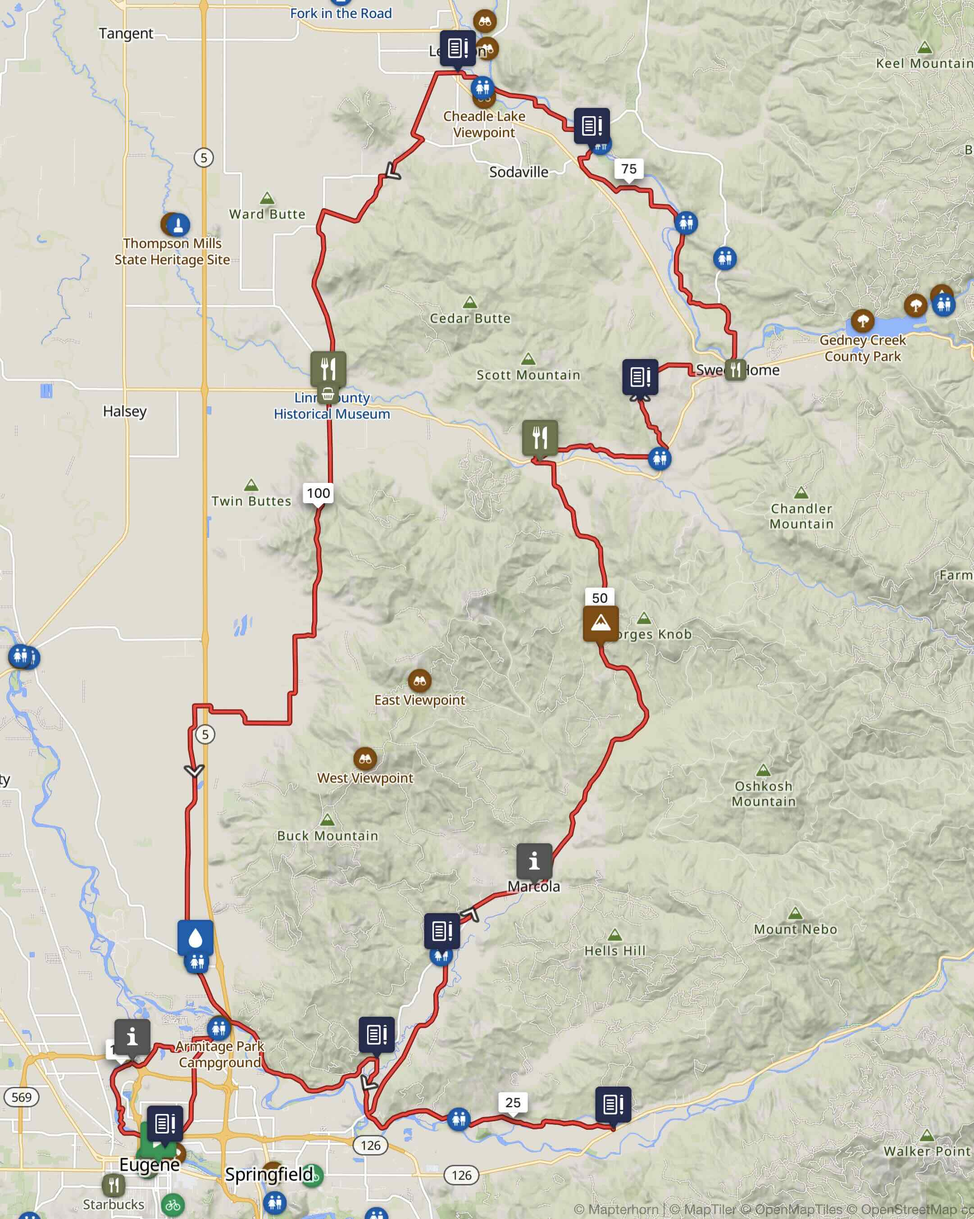
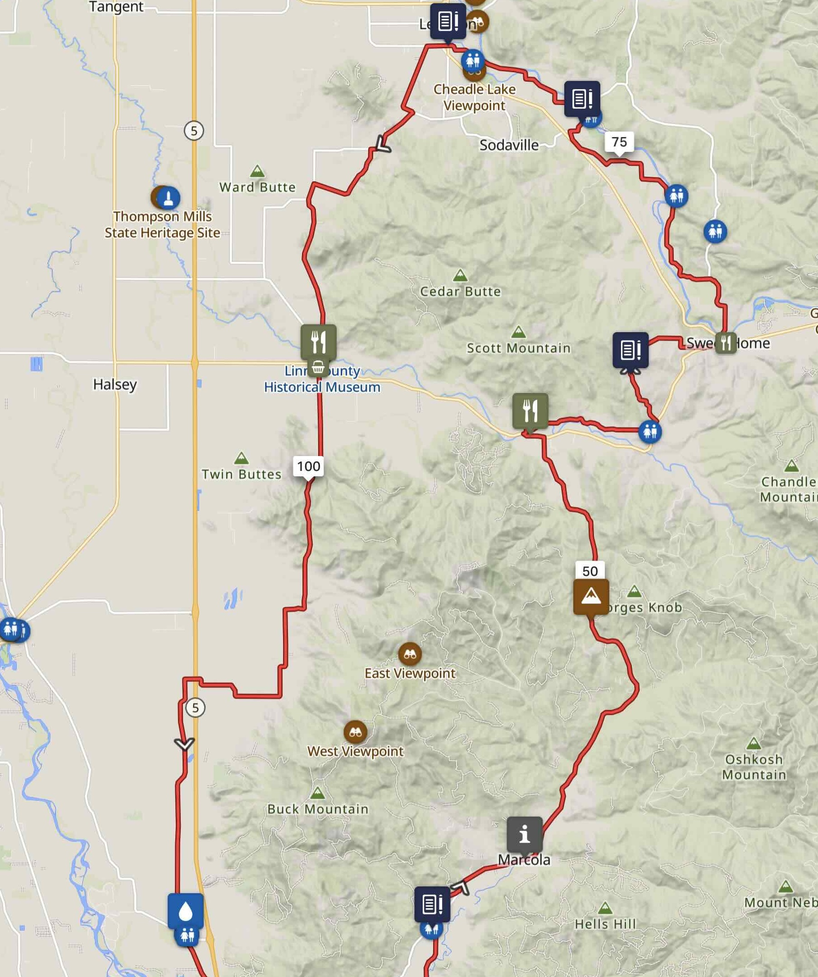
Face-lift:  Added stylesheet and background image of a RWGPS route map. Other minor style tweaks.

diff --git a/src/templates/form_analyze_trip.html b/src/templates/form_analyze_trip.html
@@ -21,16 +21,12 @@
 {% endwith %}
 
 
-<p>We need URLs or ID numbers for a  <em>Route</em> and a <em>Trip</em> from Ride with GPS
-(not Strava, Garmin, or other services.)  You can cut-and-paste URLs from
-    other browser tabs, or use the search functions to find <em>your own</em>
-    Ride with GPS entries.
-</p>
-
 <form method="post" action="form_analyze_trip_respond">
 
-
-    </input>
+    <p>Landmarks (cues, waypoints, etc) come from a RWGPS <em>route</em>.
+        You can enter a full URL or just the identifying number.  You can
+        search (🔍) for your own routes and routes you have pinned.
+    </p>
     <label_for route_url>
         <a href="{{ url_for('form_search_routes_get') }}" class="button">🔍</a>
         Route URL:</label_for>
@@ -43,7 +39,9 @@
     </input>
     <p>A route URL will look like https://ridewithgps.com/<strong>routes</strong>/123456789</p>
 
-
+    <p>A <em>trip</em> is the record of your ride.  That is where we'll
+    find the time you passed each landmark in the <em>route</em>.  You can
+    pick a recent ride using the search function (🔍). </p>
     <label_for trip_url>
         <a href="{{ url_for('form_search_trips_get') }}" class="button">🔍</a>
         Trip URL:     </label_for>
@@ -58,17 +56,18 @@
 
 
 
-    <p>Waypoints and special cues on the route are always included.  What else?</p>
+    <p>Waypoints and special cues on the route are always included.
+        <br />What else should we include?</p>
 
     <div>
         <input type="checkbox" name="cues"/>
         <label for="cues">Include turn cues?</label><br />
         <input type="checkbox" name="miles_5" />
-        <label for="miles_5">5 mile intervals?</label><br />
+        <label for="miles_5">5 mile interval markers?</label><br />
         <input type="checkbox" name="miles_10" checked />
-        <label for="miles_10">10 mile intervals?</label><br />
+        <label for="miles_10">10 mile interval markers?</label><br />
         <input type="checkbox" name="km_10"/>
-        <label for="km_10">10 km intervals?</label><br />
+        <label for="km_10">10 km interval markers?</label><br />
     </div>
 
     <br />

diff --git a/src/templates/form_select_route.html b/src/templates/form_select_route.html
@@ -1,0 +1,32 @@
+<!DOCTYPE html>
+<html lang="en">
+<head>
+    <meta charset="UTF-8">
+    <title>Select route for analysis</title>
+    <link rel="stylesheet" href="{{ url_for('static', filename='time-plan.css') }}">
+</head>
+<body>
+<div class="container">
+<div class="main-content">
+<h1>Select route for analysis</h1>
+<form action="{{ url_for('form_select_route_respond') }}" method="post">
+    <fieldset>
+        <legend>Select route to analyze</legend>
+        <div>
+            {% for route in routes %}
+                <input type="radio" id="{{route['id']}}" name="route_id" value="{{route['id']}}">
+                <label for="{{route['id']}}">
+                    {{route['name']}}
+                    {{route['distance'] // 1000}} km
+                    (<a href="https://ridewithgps.com/routes/{{route['id']}}"
+                        target="rwgps-inspect">?</a>)
+                </label><br>
+            {% endfor %}
+        </div>
+    </fieldset>
+    <button type="submit">Submit</button>
+</form>
+
+</div></div>
+</body>
+</html>

diff --git a/src/templates/form_search_routes.html b/src/templates/form_search_routes.html
@@ -1,0 +1,25 @@
+<!DOCTYPE html>
+<html lang="en">
+<head>
+    <meta charset="UTF-8">
+    <title>Search for routes</title>
+    <link rel="stylesheet" href="{{ url_for('static', filename='time-plan.css') }}">
+</head>
+<body>
+<div class="container">
+<div class="main-content">
+<h1>Find RWGPS Route for Trip Analysis</h1>
+
+<form action="{{ url_for('form_search_routes_respond') }}" method="post">
+  <label for="route_name">Name (partial match):</label>
+  <input type="text" id="route_name" name="route_name" size="60">
+  <br />
+  <label for="min_km">Min length (km):</label>
+  <input type="number" id="min_km" name="min_km" size=5  value="0"><br />
+  <label for="max_km">Max length (km):</label>
+  <input type="number" id="max_km" name="max_km" size=5 value="10000"><br />
+  <input type="submit" value="Search">
+</form>
+</div></div>
+</body>
+</html>

diff --git a/src/templates/index.html b/src/templates/index.html
@@ -9,7 +9,7 @@
 <body>
 <div class="container">
 <div class="main-content">
-  <h1>Ride With GPS OAuth Demo</h1>
+  <h1>Times of Passage</h1>
 
   {% if error %}
     <p class="error">{{ error }}</p>
@@ -24,6 +24,11 @@
     </ul>
   {% endif %}
 {% endwith %}
+
+  <p>Analyze a <em>trip</em> with respect to a <em>route</em> from Ride With GPS.</p>
+  <p>Combines cues from the route with times from the trip to indicate
+  when the rider passed each cue.  Both the route and the trip must
+  be in Ride with GPS (not Strava, Garmin, etc.)</p>
 
   {% if has_token %}
     <p>You're connected to Ride With GPS.</p>
